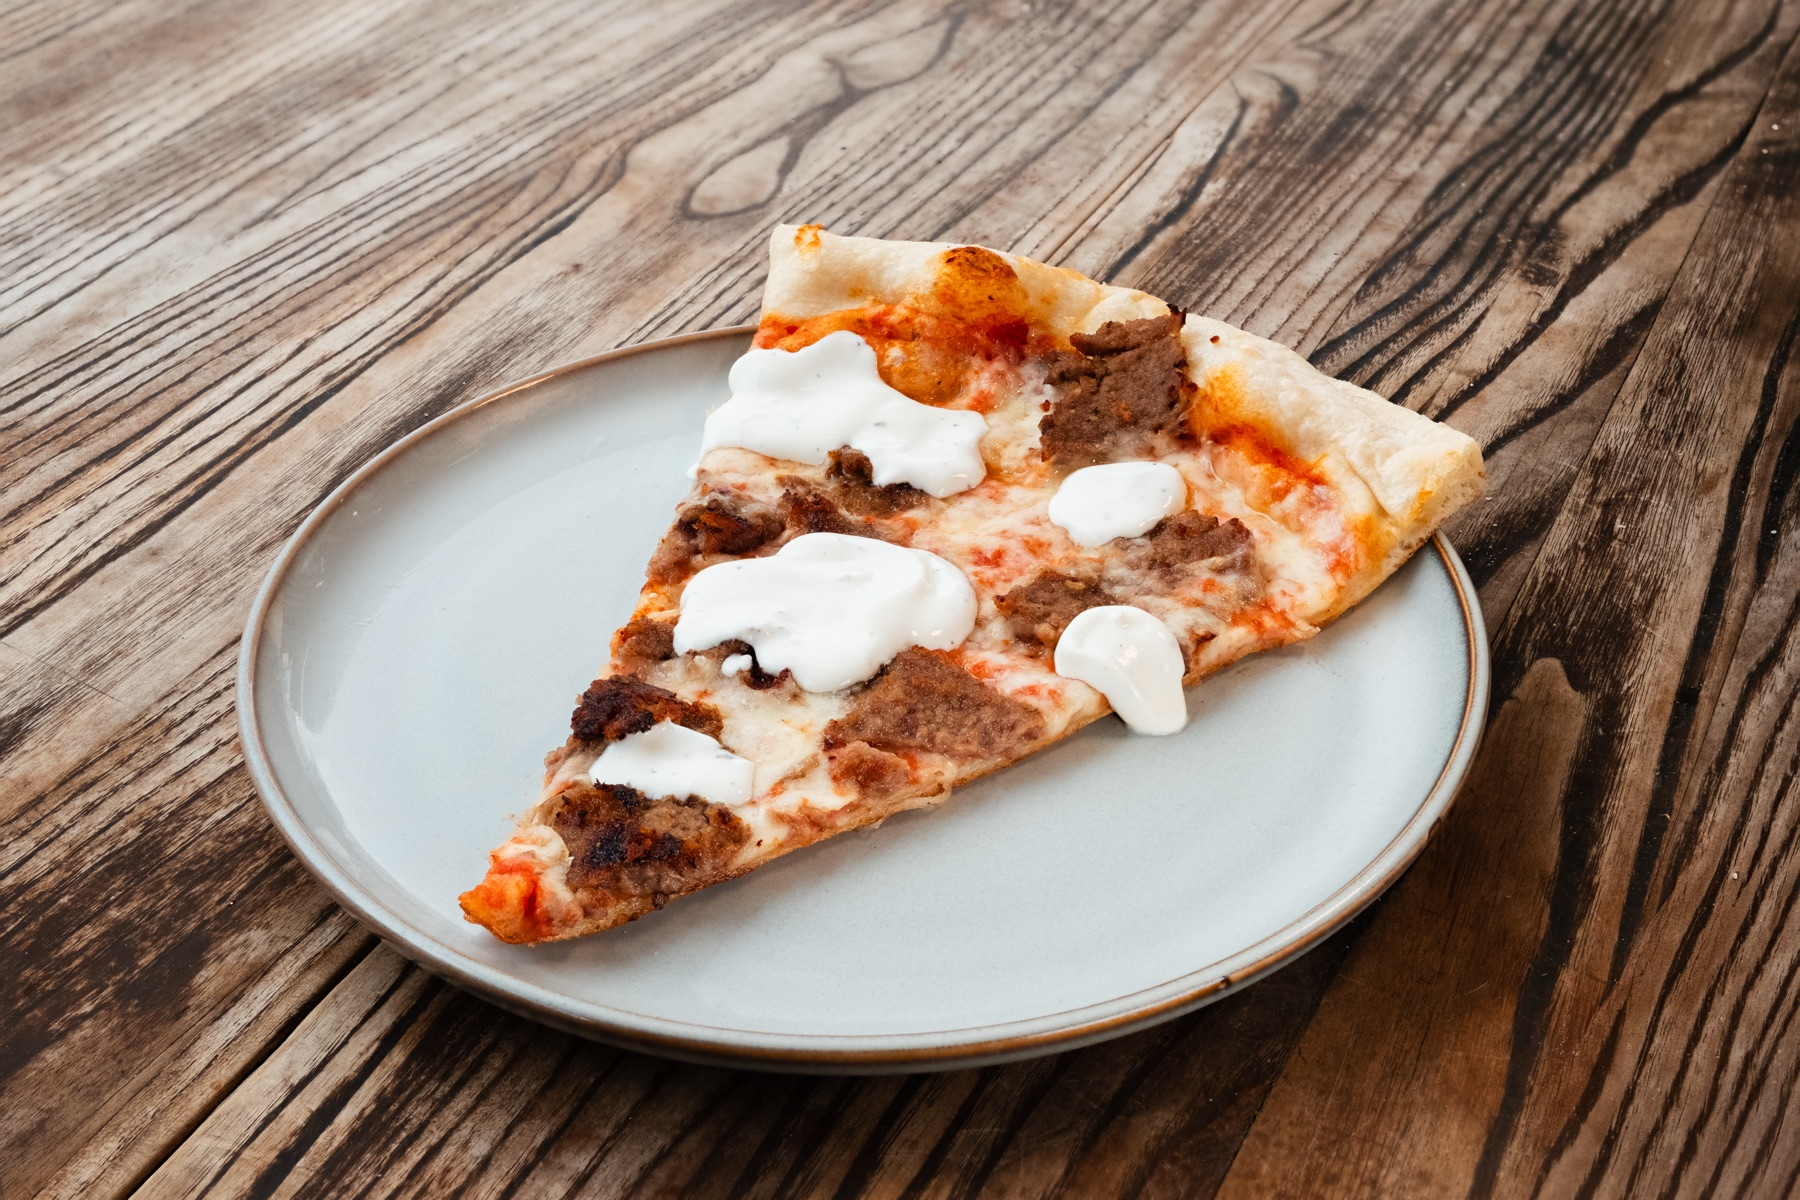
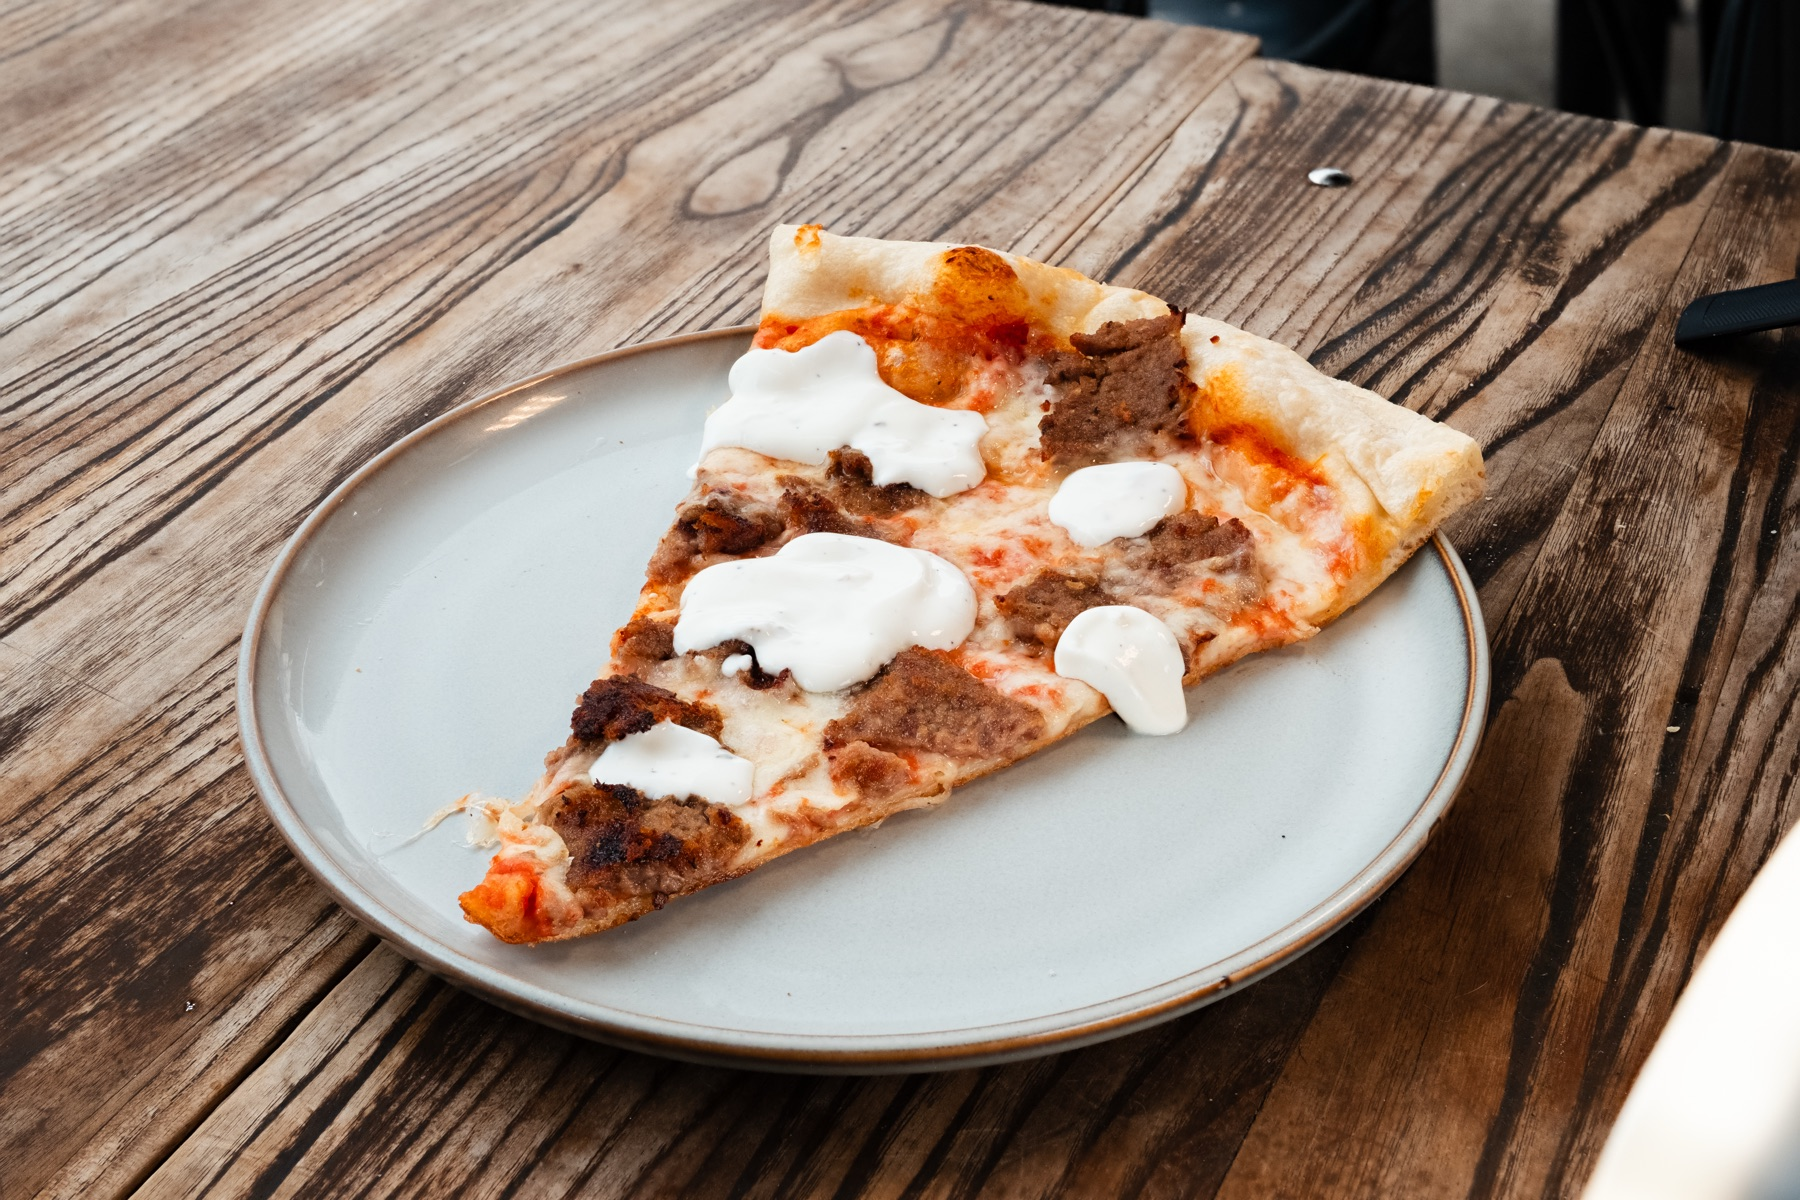
docs: use the unedited FocusMerge result as the 'after' image

diff --git a/README.md b/README.md
@@ -9,12 +9,12 @@ stacking app for the merge itself.
 
 <table>
 <tr>
-<td width="50%"><img src="docs/images/bf.jpg" alt="One frame of the stack"></td>
-<td width="50%"><img src="docs/images/af.jpg" alt="The finished photo"></td>
+<td width="50%"><img src="docs/images/bf.jpg" alt="One frame of the stack, unmerged"></td>
+<td width="50%"><img src="docs/images/af.jpg" alt="The merged result, straight from FocusMerge with no further adjustments"></td>
 </tr>
 <tr>
 <td align="center"><sub>One frame (shallow depth of field)</sub></td>
-<td align="center"><sub>The finished photo: a focus stack merged with FocusMerge, then edited</sub></td>
+<td align="center"><sub>FocusMerge output: the whole stack merged. No retouching, colour grading or other adjustments.</sub></td>
 </tr>
 </table>
 
